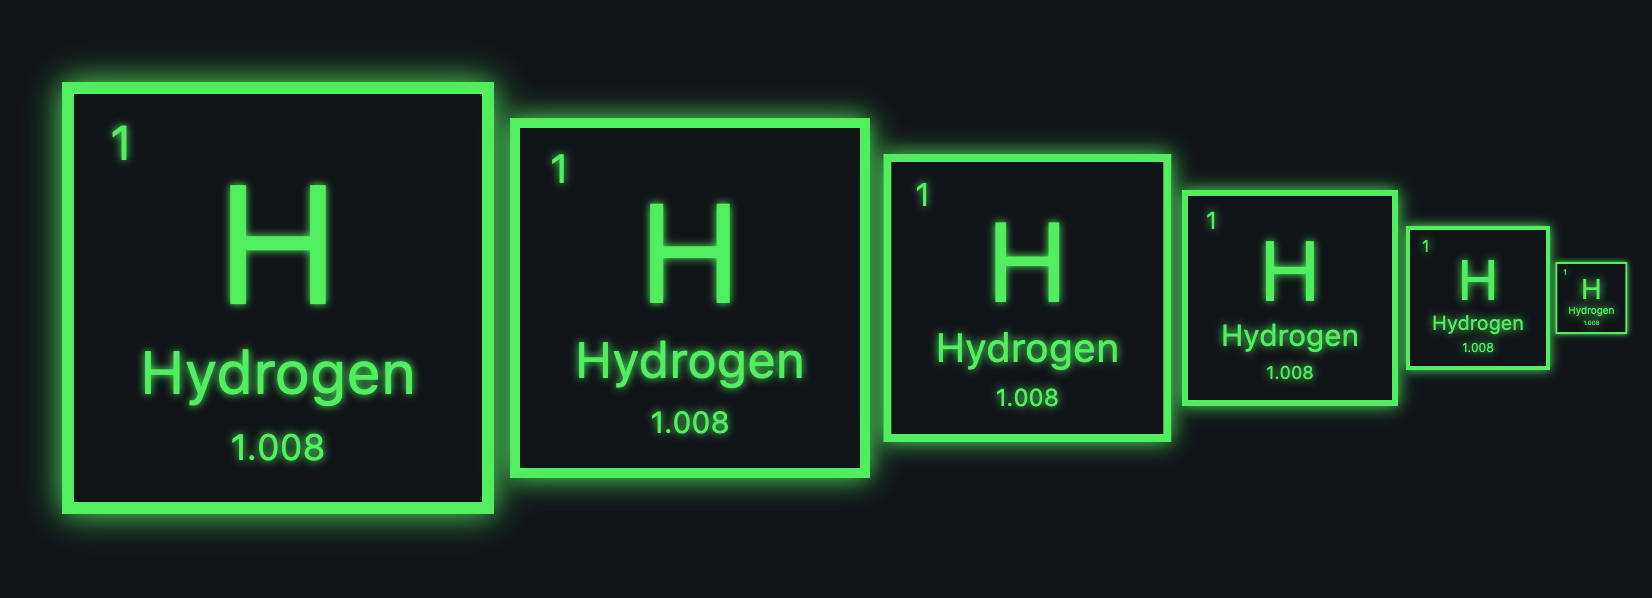
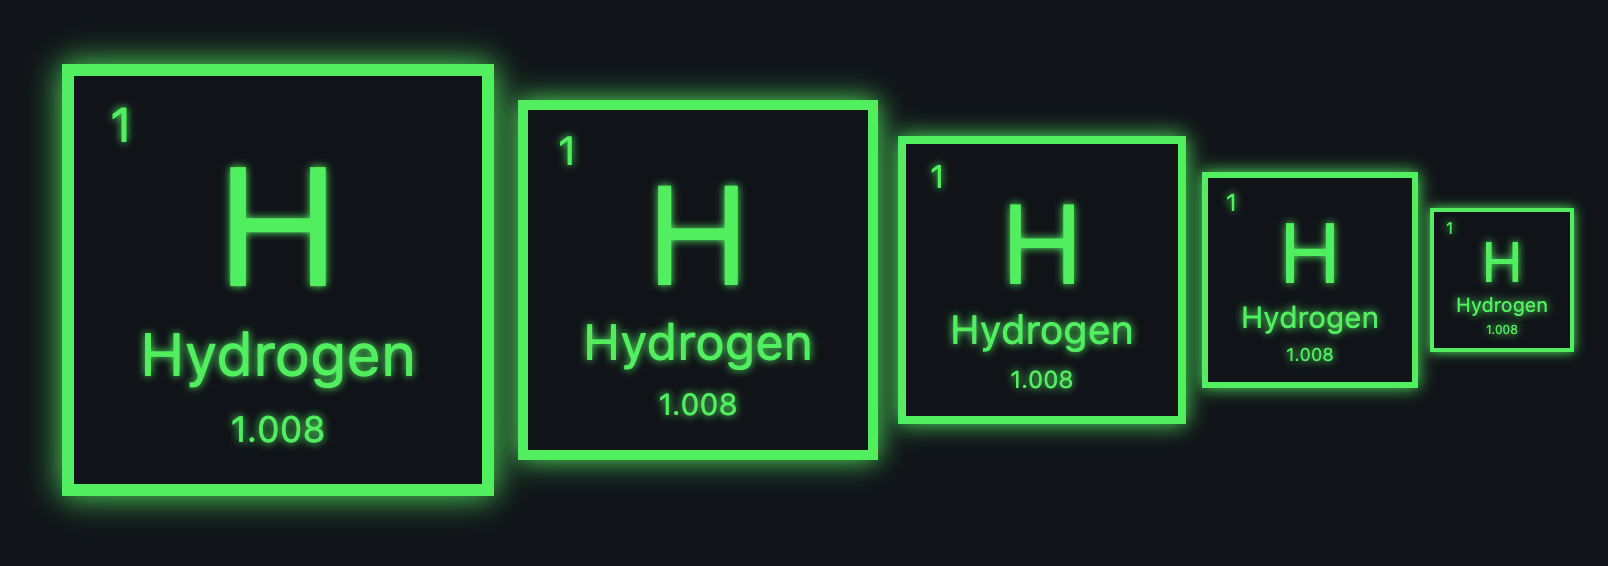
Clean up README a little

diff --git a/example/lib/main.dart b/example/lib/main.dart
@@ -25,9 +25,9 @@ class ScaledBoxExample extends StatelessWidget {
         child: Row(
           mainAxisAlignment: MainAxisAlignment.center,
           children: [
-            for (double scale = 3.0; scale > 0; scale -= 0.5) ...[
+            for (double scale = 3.0; scale > 0.5; scale -= 0.5) ...[
               ScaledBox(scale: scale, child: hydrogen),
-              SizedBox(width: 8 * (scale / 3)),
+              SizedBox(width: 12 * (scale / 3)),
             ],
           ],
         ),

diff --git a/README.md b/README.md
@@ -2,8 +2,9 @@
 
 <img src="https://raw.githubusercontent.com/madewithfelt/scaled_box/master/doc/images/hydrogen_scaled.png">
 
-Like `Transform.scale`, but affects layout.
+`ScaledBox` is like `Transform.scale`, but unlike `Transform` also
+affects layout.
 
 ### ‼ WORK IN PROGRESS ‼
 
-This will not work in plenty of situations, nor is it published.
+This will not work in plenty of situations, and is not available on pub.dev.
